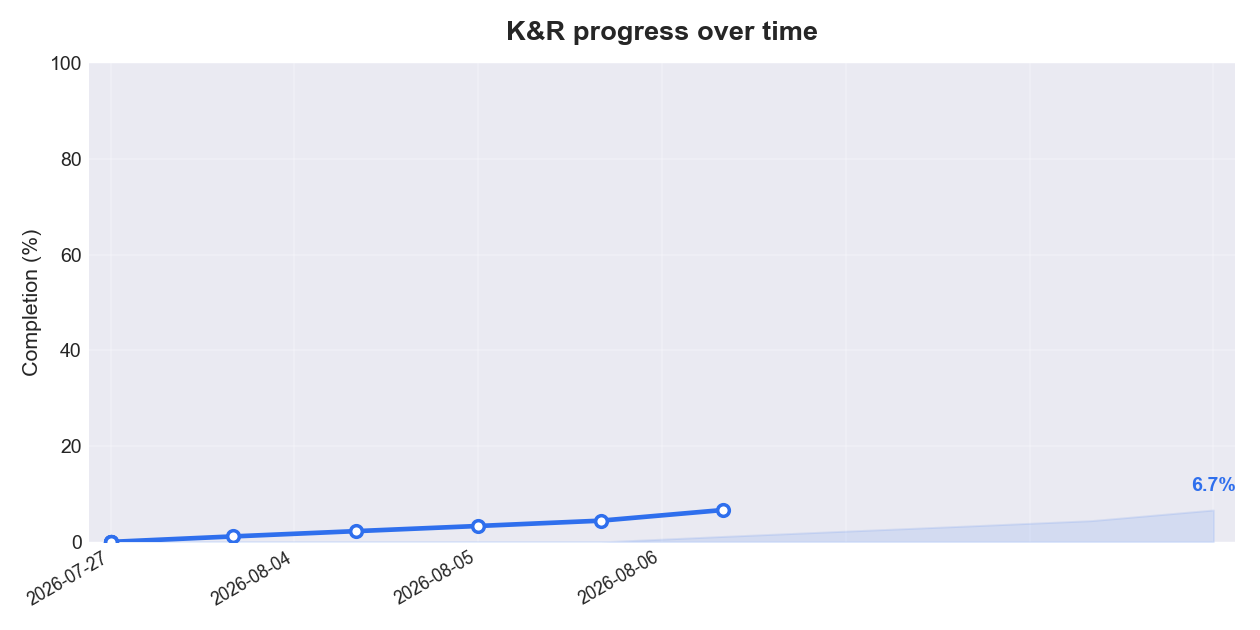
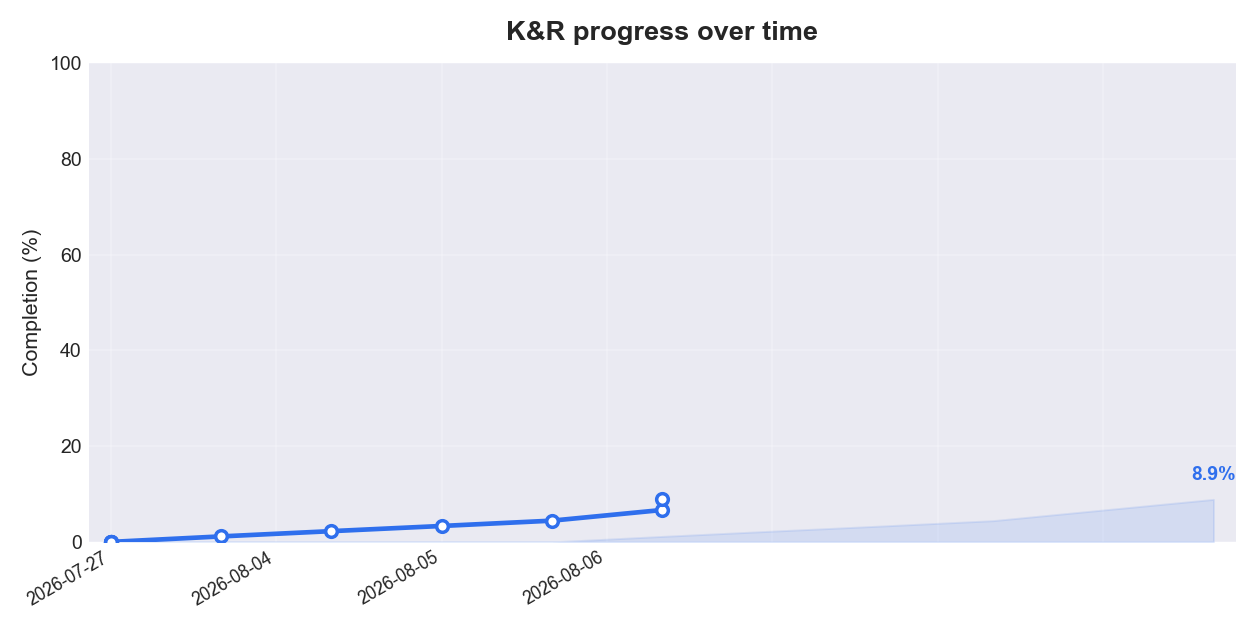
Mark 1.2 exercises complete

diff --git a/ch01-tutorial-intro/1.2-variables-arithmetic/exercises/ex1-2a.c b/ch01-tutorial-intro/1.2-variables-arithmetic/exercises/ex1-2a.c
@@ -1,0 +1,19 @@
+#include <stdio.h>
+/* print Fahrenheit-Celsius table
+for fahr = 0, 20, ..., 300; floating-point version */
+int main(void)
+{
+    printf("Fahrehheit to Celcius Converter\n");
+    float fahr, celsius;
+    float lower, upper, step;
+    lower = 0;   /* lower limit of temperatuire scale */
+    upper = 300; /* upper limit */
+    step = 20;   /* step size */
+    fahr = lower;
+    while (fahr <= upper)
+    {
+        celsius = (5.0 / 9.0) * (fahr - 32.0);
+        printf("%3.0f %6.1f\n", fahr, celsius);
+        fahr = fahr + step;
+    }
+}

diff --git a/ch01-tutorial-intro/1.2-variables-arithmetic/exercises/ex1-2b.c b/ch01-tutorial-intro/1.2-variables-arithmetic/exercises/ex1-2b.c
@@ -1,0 +1,14 @@
+#include <stdio.h>
+
+int main(void){
+    /*Fahrenheit = c * 9/5 + 32*/
+    int lower = 0;
+    int upper = 1000;
+    int step = 20;
+    printf("Celcius to Fahrenheit Converter\n");
+    while(lower<= upper){
+        float fahrenheit = lower * 9/5.0 + 32;
+        printf("%3d\t%7.2f\n", lower, fahrenheit);
+        lower = lower + step;
+    }
+}

diff --git a/TRACKER.md b/TRACKER.md
@@ -6,13 +6,13 @@ _Last updated: 2026-08-11_
 
 ## Overall
 
-**6.7% complete** `[##----------------------]`
+**8.9% complete** `[##----------------------]`
 
 | Metric | Done | Total |
 | --- | --- | --- |
 | Section notes | 4 | 77 |
 | Chapter summaries | 0 | 8 |
-| Exercises solved | 2 | 5 |
+| Exercises solved | 4 | 5 |
 
 ## Progress over time
 
@@ -22,7 +22,7 @@ _Last updated: 2026-08-11_
 
 | Chapter | Notes | Summary | Exercises |
 | --- | :---: | :---: | :---: |
-| 1. A Tutorial Introduction | 4 / 10 | - | 2 / 5 |
+| 1. A Tutorial Introduction | 4 / 10 | - | 4 / 5 |
 | 2. Types, Operators and Expressions | 0 / 12 | - | 0 / 0 |
 | 3. Control Flow | 0 / 8 | - | 0 / 0 |
 | 4. Functions and Program Structure | 0 / 11 | - | 0 / 0 |
@@ -40,7 +40,7 @@ _Last updated: 2026-08-11_
 | Section | Title | Notes | Summary | Exercises |
 | :---: | --- | :---: | :---: | :---: |
 | 1.1 | Getting Started | yes | - | 2 / 2 |
-| 1.2 | Variables and Arithmetic Expressions | yes | - | 0 / 2 |
+| 1.2 | Variables and Arithmetic Expressions | yes | - | 2 / 2 |
 | 1.3 | The for statement | yes | - | 0 / 1 |
 | 1.4 | Symbolic Constants | yes | - | 0 / 0 |
 | 1.5 | Character Input and Output | - | - | 0 / 0 |

diff --git a/ch01-tutorial-intro/1.2-variables-arithmetic/exercises/exercises-1.2.md b/ch01-tutorial-intro/1.2-variables-arithmetic/exercises/exercises-1.2.md
@@ -8,5 +8,5 @@ Solution files go next to this file and are named like `ex1-2a.c`, `ex1-2b.c`
 
 Total exercises: 2
 
-- [ ] **Exercise 1-3 (a).** Modify the temperature conversion program to print a heading above the table.
-- [ ] **Exercise 1-4 (b).** Write a program to print the corresponding Celsius to Fahrenheit table.
+- [x] **Exercise 1-3 (a).** Modify the temperature conversion program to print a heading above the table.
+- [x] **Exercise 1-4 (b).** Write a program to print the corresponding Celsius to Fahrenheit table.
